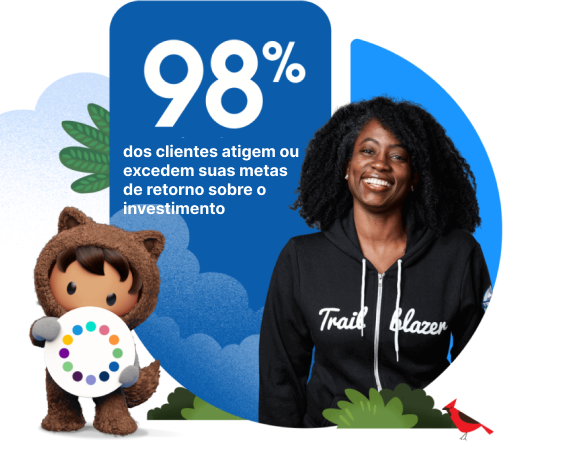
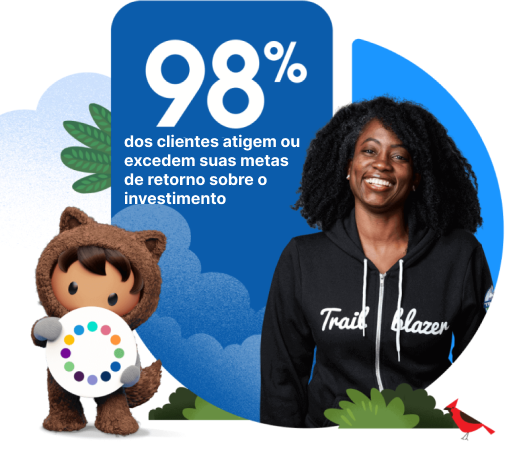
arrumando os tamanhos das imagens

diff --git a/src/app/css/estilo.css b/src/app/css/estilo.css
@@ -83,8 +83,8 @@ a {
     gap: 20px;
 }
 
-.icons{
-cursor: pointer;
+.icons {
+    cursor: pointer;
 
 }
 
@@ -131,6 +131,13 @@ cursor: pointer;
     height: auto;
     padding: 50px 0;
     display: flex;
+    align-items: center;
+}
+
+.img_banner {
+    max-width: 600px;
+    min-width: 500PX;
+    padding-bottom: 30px;
 }
 
 .txt_banner {
@@ -169,6 +176,8 @@ cursor: pointer;
 
 .img_banner {
     width: 50%;
+    display: flex;
+    justify-content: center;
 }
 
 /* ===================== Novidades =================== */
@@ -250,6 +259,8 @@ cursor: pointer;
 
 .conteudo_produtos img {
     padding: 50px 0;
+    max-width: 500px;
+    min-width: 450px;
 }
 
 .conteudo_produtos p {
@@ -265,6 +276,10 @@ cursor: pointer;
 
 .img_produtos {
     width: 50%;
+    display: flex;
+    align-items: center;
+    justify-content: center;
+
 }
 
 
@@ -340,56 +355,57 @@ cursor: pointer;
 }
 
 .contatos .content {
-  display: flex;
-  flex-direction: column;
-  align-items: center;
+    display: flex;
+    flex-direction: column;
+    align-items: center;
 }
 
 .formulario {
-  display: grid;
-  grid-template-columns: repeat(2, 1fr);
-  gap: 20px;
+    display: grid;
+    grid-template-columns: repeat(2, 1fr);
+    gap: 20px;
 }
 
 .formulario .linha_campo {
-  display: grid;
-  grid-template-columns: 1fr;
-  gap: 10px;
+    display: grid;
+    grid-template-columns: 1fr;
+    gap: 10px;
 }
 
 .formulario .linha_campo.textarea {
-  grid-template-columns: 1fr !important; /* Forçar uma coluna */
+    grid-template-columns: 1fr !important;
+    /* Forçar uma coluna */
 }
 
 .formulario .area_campo {
-  display: flex;
-  flex-direction: column;
+    display: flex;
+    flex-direction: column;
 }
 
 .formulario label {
-  margin-bottom: 5px;
+    margin-bottom: 5px;
 }
 
 .formulario input,
 .formulario textarea {
-  padding: 10px;
-  border: 1px solid #ccc;
-  border-radius: 5px;
-  width: 100%;
+    padding: 10px;
+    border: 1px solid #ccc;
+    border-radius: 5px;
+    width: 100%;
 }
 
 .formulario button {
-  padding: 10px 20px;
-  background-color: #007bff;
-  color: #fff;
-  border: none;
-  border-radius: 5px;
-  cursor: pointer;
-  transition: background-color 0.3s ease;
+    padding: 10px 20px;
+    background-color: #007bff;
+    color: #fff;
+    border: none;
+    border-radius: 5px;
+    cursor: pointer;
+    transition: background-color 0.3s ease;
 }
 
 .formulario button:hover {
-  background-color: #0056b3;
+    background-color: #0056b3;
 }
 
 
@@ -427,7 +443,7 @@ cursor: pointer;
 }
 
 .menu_links,
-.menu_contato{
+.menu_contato {
     padding-bottom: 30px;
 }
 
@@ -449,13 +465,12 @@ cursor: pointer;
     text-decoration: underline;
 }
 
-.rodape span {
+.rodape_txt {
     padding: 50px;
     font-size: large;
     color: #F1EEEE;
     display: flex;
+    flex-direction: column;
     justify-content: center;
+    gap: 5px;
 }
-
-
-/* teste */

diff --git a/src/app/componentes/Footer/footer.tsx b/src/app/componentes/Footer/footer.tsx
@@ -1,16 +1,16 @@
 import Image from "next/image";
 import Link from "next/link";
 
-const Footer = () =>{
-    return(
+const Footer = () => {
+    return (
         <>
-        
+
             <footer className="rodape">
-                
+
                 <section className="rodape_conteudo">
 
                     <div className="redes">
-                    <a href="./"><Image src="/imagens/Logo.png" alt="Logo salesforce" width={100} height={75}></Image></a>
+                        <a href="./"><Image src="/imagens/Logo.png" alt="Logo salesforce" width={100} height={75}></Image></a>
                         <h3>Redes Sociais</h3>
                         <nav className="menu_redes">
                             <li>
@@ -39,20 +39,20 @@ const Footer = () =>{
                     <nav className="menu_links">
                         <h3>Links Úteis</h3>
                         <ul>
-                        <li>
-                            <Link href="./" >Página Inicial</Link> 
-                        </li>
-                        <li>
-                            <Link href="#produtos" >Produtos</Link>
-                        </li>
-                        <li>
-                            <Link href="#noticias" >Notícias</Link>
-                        </li>
-                    </ul>
+                            <li>
+                                <Link href="./" >Página Inicial</Link>
+                            </li>
+                            <li>
+                                <Link href="#produtos" >Produtos</Link>
+                            </li>
+                            <li>
+                                <Link href="#noticias" >Notícias</Link>
+                            </li>
+                        </ul>
                     </nav>
 
                     <nav className="menu_contato">
-                    <h3>Entre em contato</h3>
+                        <h3>Entre em contato</h3>
                         <ul>
                             <li>
                                 <Link href="tel:5508008911887">Ligue 0800 891 1887</Link>
@@ -63,10 +63,16 @@ const Footer = () =>{
                         </ul>
                     </nav>
                 </section>
-                <span>©2023 InovaTech. Todos os direitos reservados. Inovação em cada solução.</span>
                 
+                <div className="rodape_txt">
+
+                    <span>Átila Costa - RM552650 | Rafael Vida - RM553721 | Gabriel Plasa - 553527</span>
+                    <span>©2023 InovaTech. Todos os direitos reservados. Inovação em cada solução.</span>
+
+                </div>
+
             </footer>
-            
+
         </>
     )
 }

diff --git a/src/app/componentes/Produtos/produtos.tsx b/src/app/componentes/Produtos/produtos.tsx
@@ -12,16 +12,17 @@ const Produtos: React.FC = () => {
 
                         <div className="txt_produtos">
                             <Image src="/imagens/img_costumer.png" alt="Logo customer 360" width={400} height={65}></Image>
-                            
-                            <p>O Customer 360 da Salesforce é uma plataforma que reúne informações de clientes  
+
+                            <p>O Customer 360 da Salesforce é uma plataforma que reúne informações de clientes
                                 de diversas fontes para criar um perfil completo de cada cliente.Isso ajuda as empresas
                                 a entender melhor seus clientes e oferecer experiências personalizadas,
                                 melhorando seus relacionamentos e impulsionando o engajamento.</p>
                         </div>
 
-                        <Image className="img_produtos" src="/imagens/img_produtos.png" 
-                        alt="Imagem do costumer 360 em volta de uma mulher" width={500} height={500}></Image>
-
+                        <div className="img_produtos">
+                            <Image src="/imagens/img_produtos.png"
+                                alt="Imagem do costumer 360 em volta de uma mulher" width={500} height={500}></Image>
+                        </div>
                     </div>
                 </div>
             </section>
